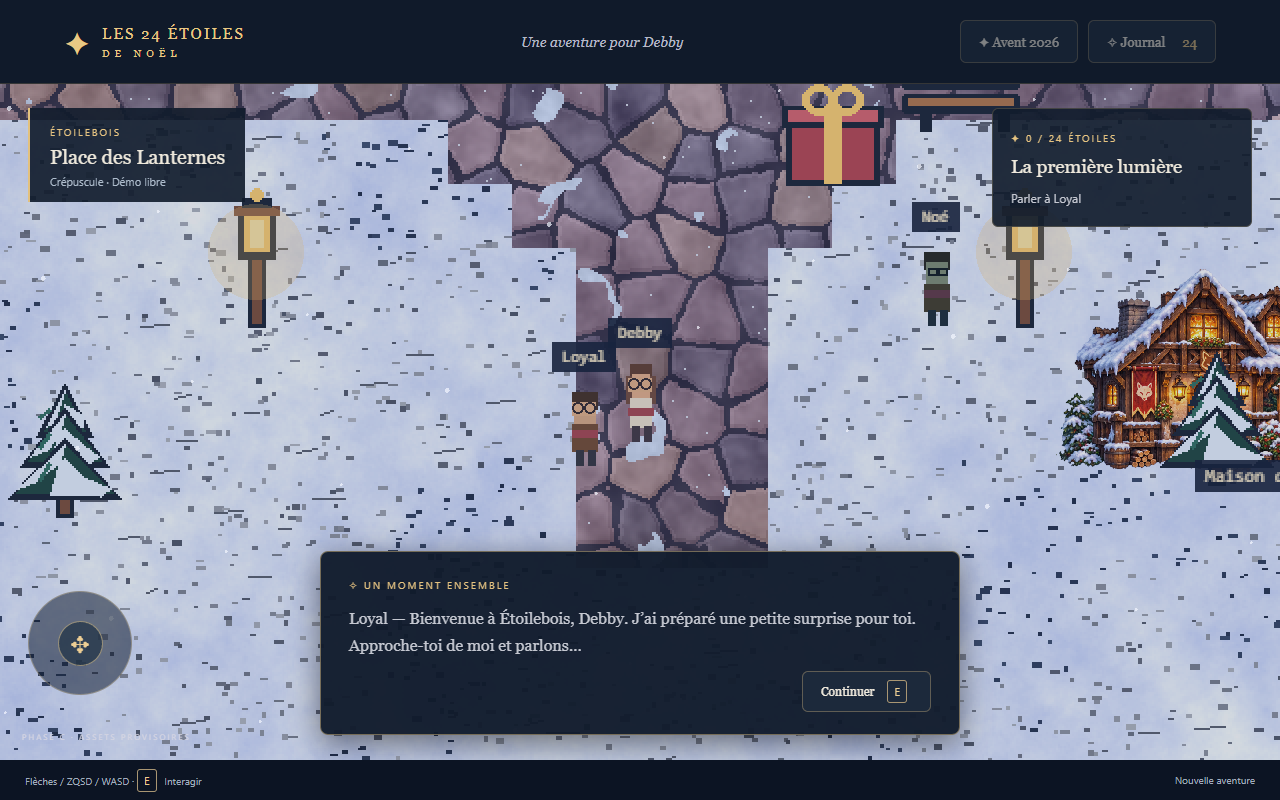
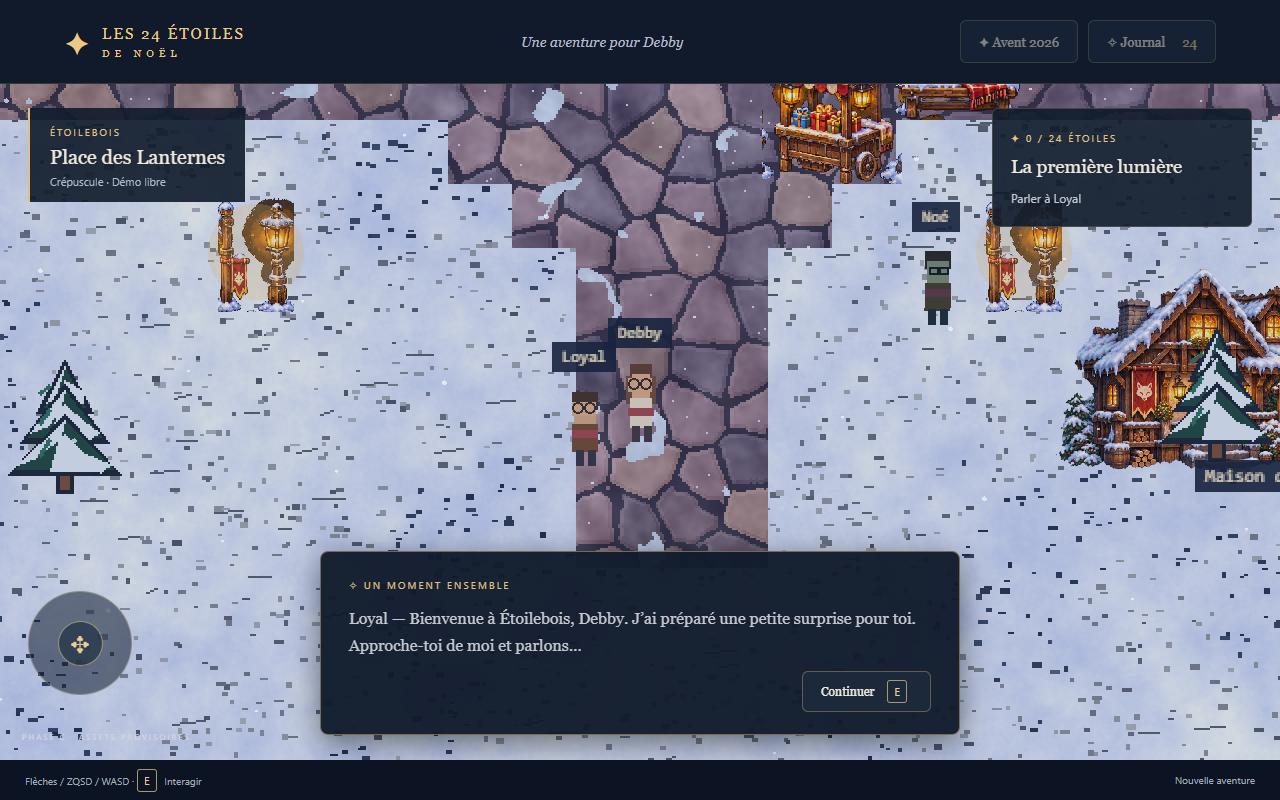
feat(art-d2): dress the square with supplied decorations

diff --git a/src/art/world.ts b/src/art/world.ts
@@ -7,11 +7,28 @@ export const buildingArt: Record<string, string> = {
   loyal_house: "maison_loyal", library: "bibliotheque_etoilebois",
   workshop: "atelier_cadeaux", inn: "auberge_etoiles",
 };
+export const propArt: Record<string, {key:string;width:number}> = {
+  lantern:{key:"lampadaire",width:38}, bench:{key:"banc_plaid",width:68},
+  signpost:{key:"panneau_direction",width:58}, gift:{key:"stand_cadeaux",width:70},
+  pine_large:{key:"vegetation_pine_large",width:80},
+};
 export function preloadWorld(scene: Phaser.Scene) {
   for (const key of ["snow", "stone", "dirt"] as const)
     scene.load.spritesheet(`art-${key}`, art[key], { frameWidth: 32, frameHeight: 32 });
   for (const key of Object.values(buildingArt))
     scene.load.image(`art-${key}`, art[key as keyof typeof art]);
+  for (const key of [...Object.values(propArt).map(p=>p.key),"bonhomme_neige","jardiniere","cloture_guirlande","brasero"])
+    scene.load.image(`art-${key}`, art[key as keyof typeof art]);
+}
+export function decorate(scene: Phaser.Scene) {
+  const placements: [string,number,number,number][] = [
+    ["bonhomme_neige",90,600,56], ["jardiniere",152,345,46],
+    ["cloture_guirlande",880,290,100], ["brasero",360,160,48],
+  ];
+  for (const [key,x,y,width] of placements) {
+    const obj=scene.add.image(x,y,`art-${key}`).setOrigin(.5,1).setDepth(y);
+    obj.setScale(width/obj.width);
+  }
 }
 /** Continuous macrotextures retain their spatial neighbours, without random tile indices. */
 export function drawGround(scene: Phaser.Scene) {

diff --git a/src/game/Game.ts b/src/game/Game.ts
@@ -1,4 +1,4 @@
-import { preloadWorld, drawGround, buildingArt } from "../art/world";
+import { preloadWorld, drawGround, buildingArt, propArt, decorate } from "../art/world";
 import Phaser from "phaser";
 import map from "./maps/place-des-lanternes.json";
 import manifest from "../../assets-manifest.json";
@@ -166,13 +166,16 @@ export class Village extends Phaser.Scene {
       h = 768;
     if (this.state.room === "village") {
       drawGround(this);
+      decorate(this);
       map.props.forEach((p) => {
         if (p.sprite === "quest_star") return;
         const conf = manifest.props[p.sprite as keyof typeof manifest.props];
-        this.add
-          .image(p.tileX * 16, p.tileY * 16, p.sprite)
+        const replacement = propArt[p.sprite];
+        const prop = this.add
+          .image(p.tileX * 16, p.tileY * 16, replacement ? "art-" + replacement.key : p.sprite)
           .setOrigin(conf.origin.x, conf.origin.y)
           .setDepth(p.tileY * 16);
+        if (replacement) prop.setScale(replacement.width / prop.width).setOrigin(.5, 1);
         if (p.solid)
           this.rects.push({
             x: p.tileX * 16 - 14,

diff --git a/docs/graphismes/BILAN-D1-D9.md b/docs/graphismes/BILAN-D1-D9.md
@@ -17,7 +17,7 @@ Défauts connus : les façades V10 contiennent des résidus gris semi-opaques ; 
 Vérification D1 : build TypeScript/Vite réussi, test navigateur desktop réussi et capture inspectée. Emplacements, collisions et entrées conservés ; façades visibles sans substitution du code de référence.
 
 ## D2 — Décorations
-À réaliser.
+Lanternes, bancs, panneaux, cadeaux V11 et végétation du pack intégrés aux positions existantes, avec bonhomme de neige, jardinière, clôture et brasero aux bords de la place. Les décorations ajoutées ne bloquent aucun chemin et ne créent aucune interaction. Les découpes V11 peuvent conserver halos et fragments voisins, conformément à leur README.
 
 ## D3 — Ambiance
 À réaliser.
